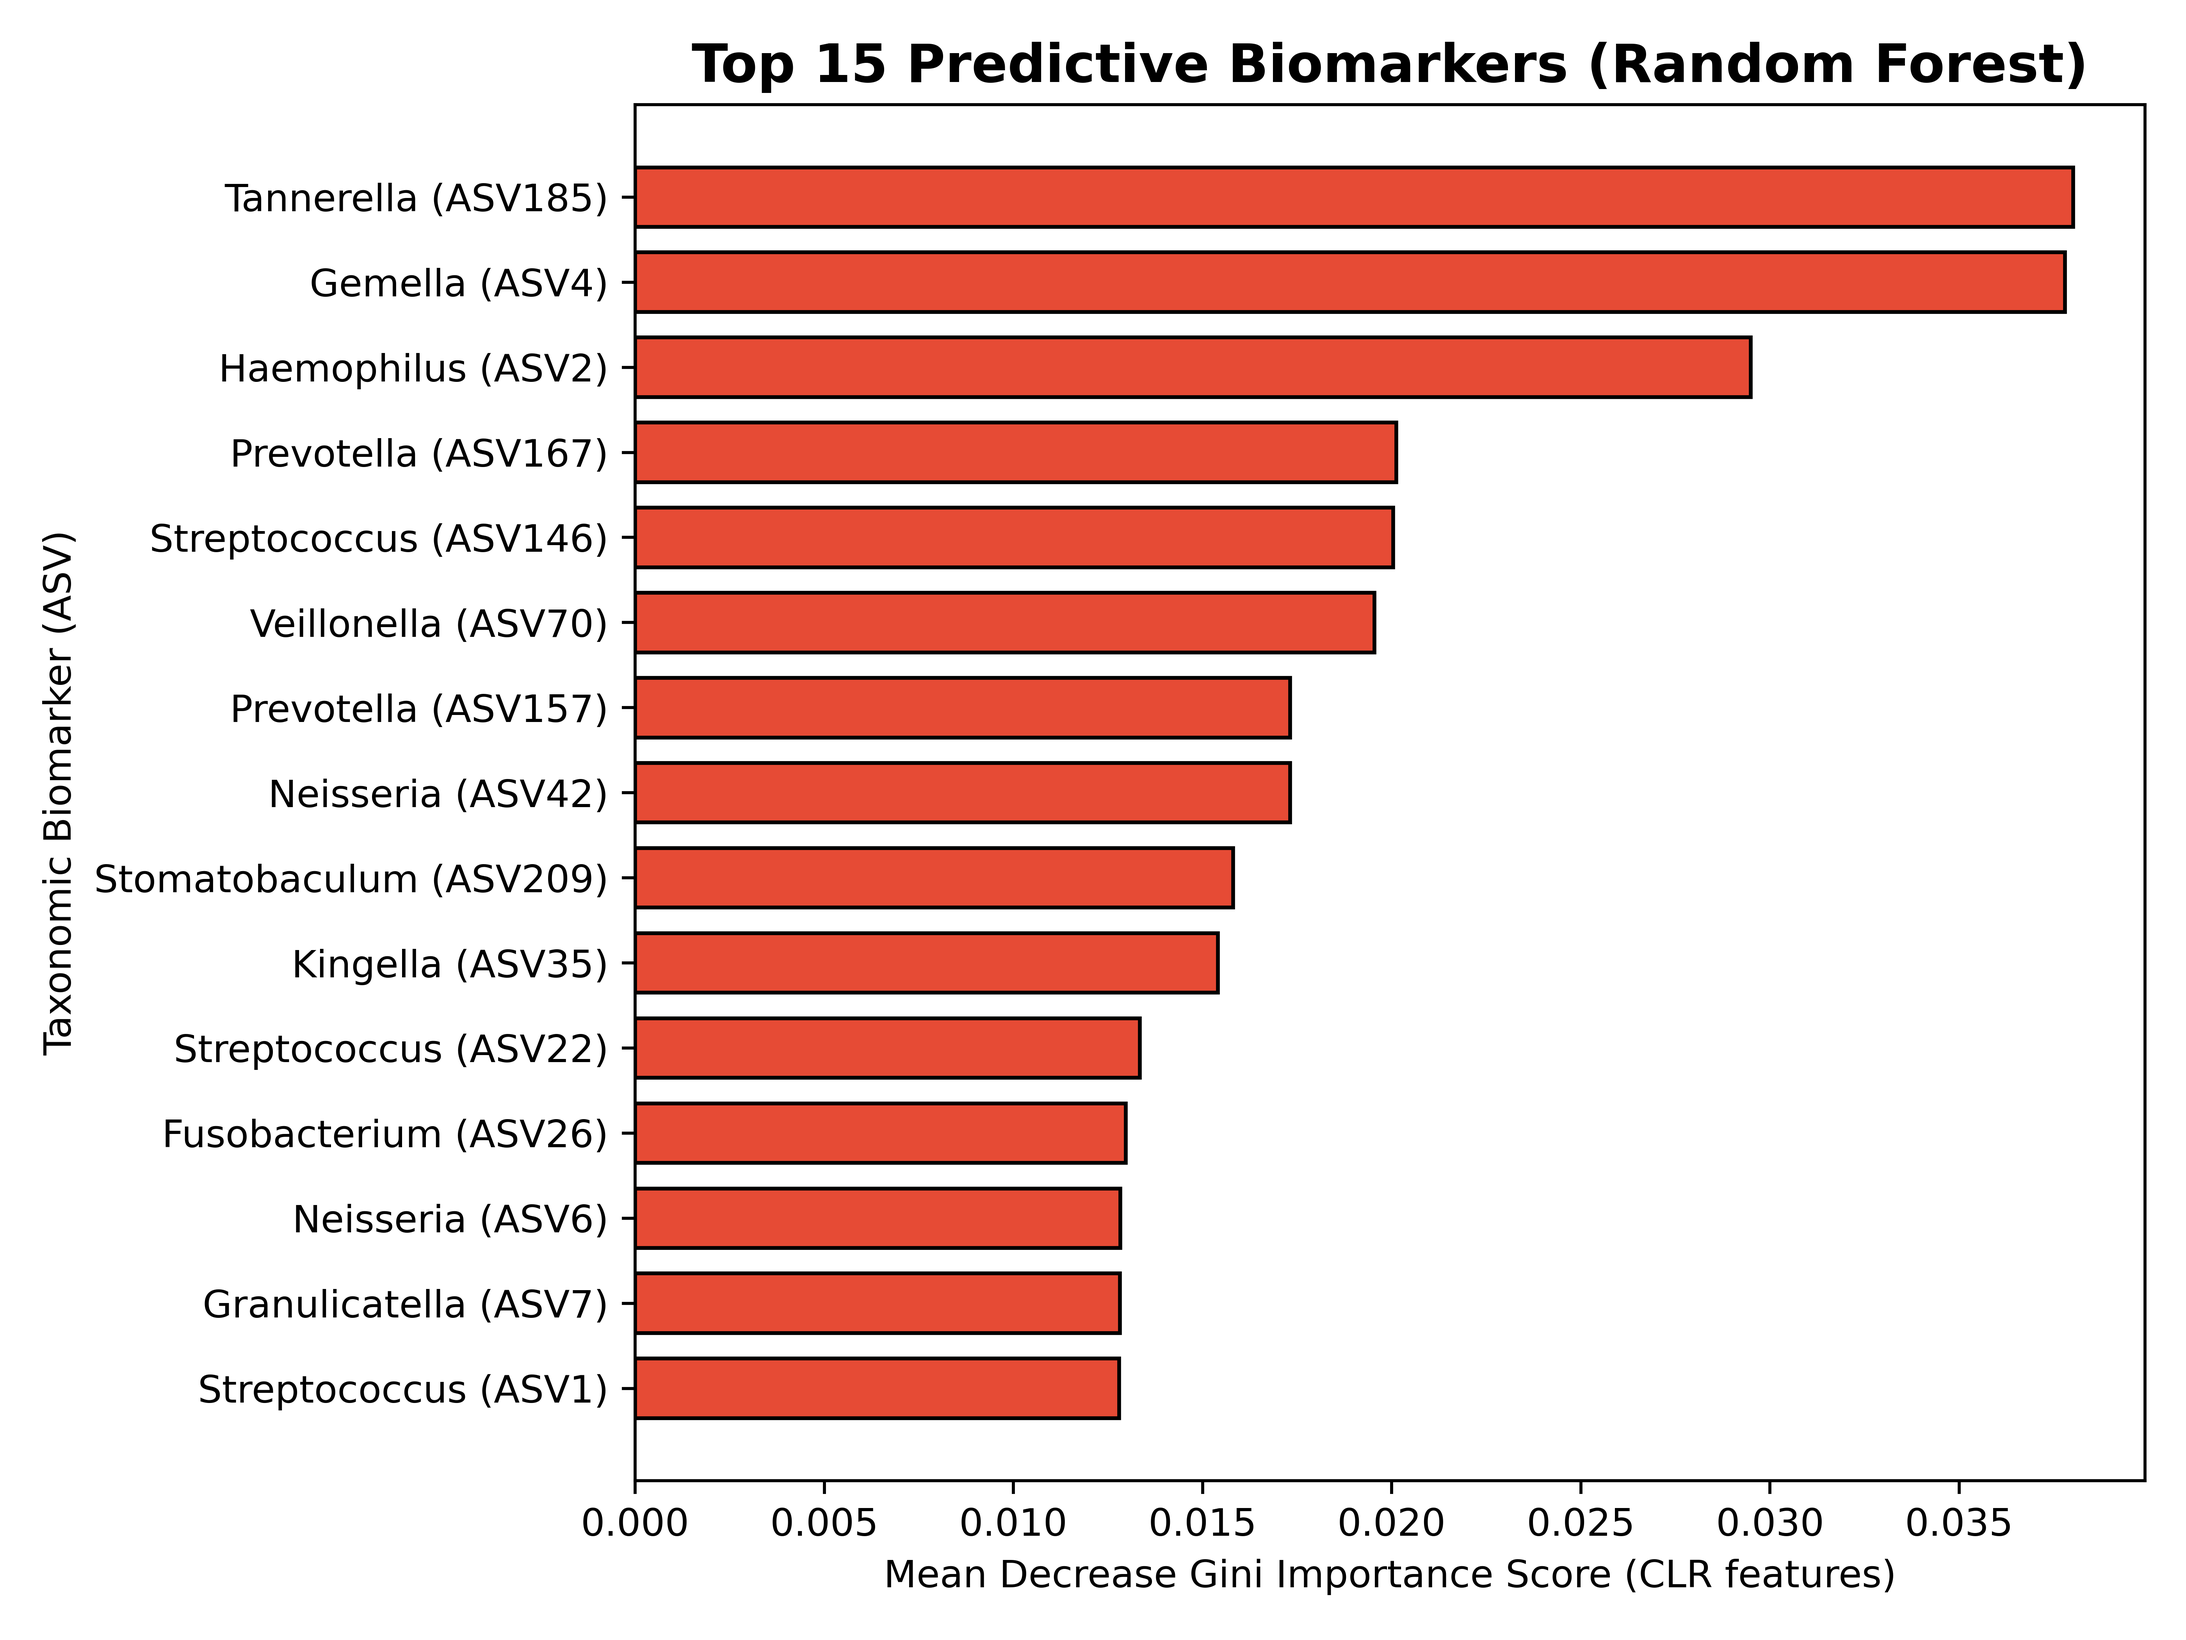
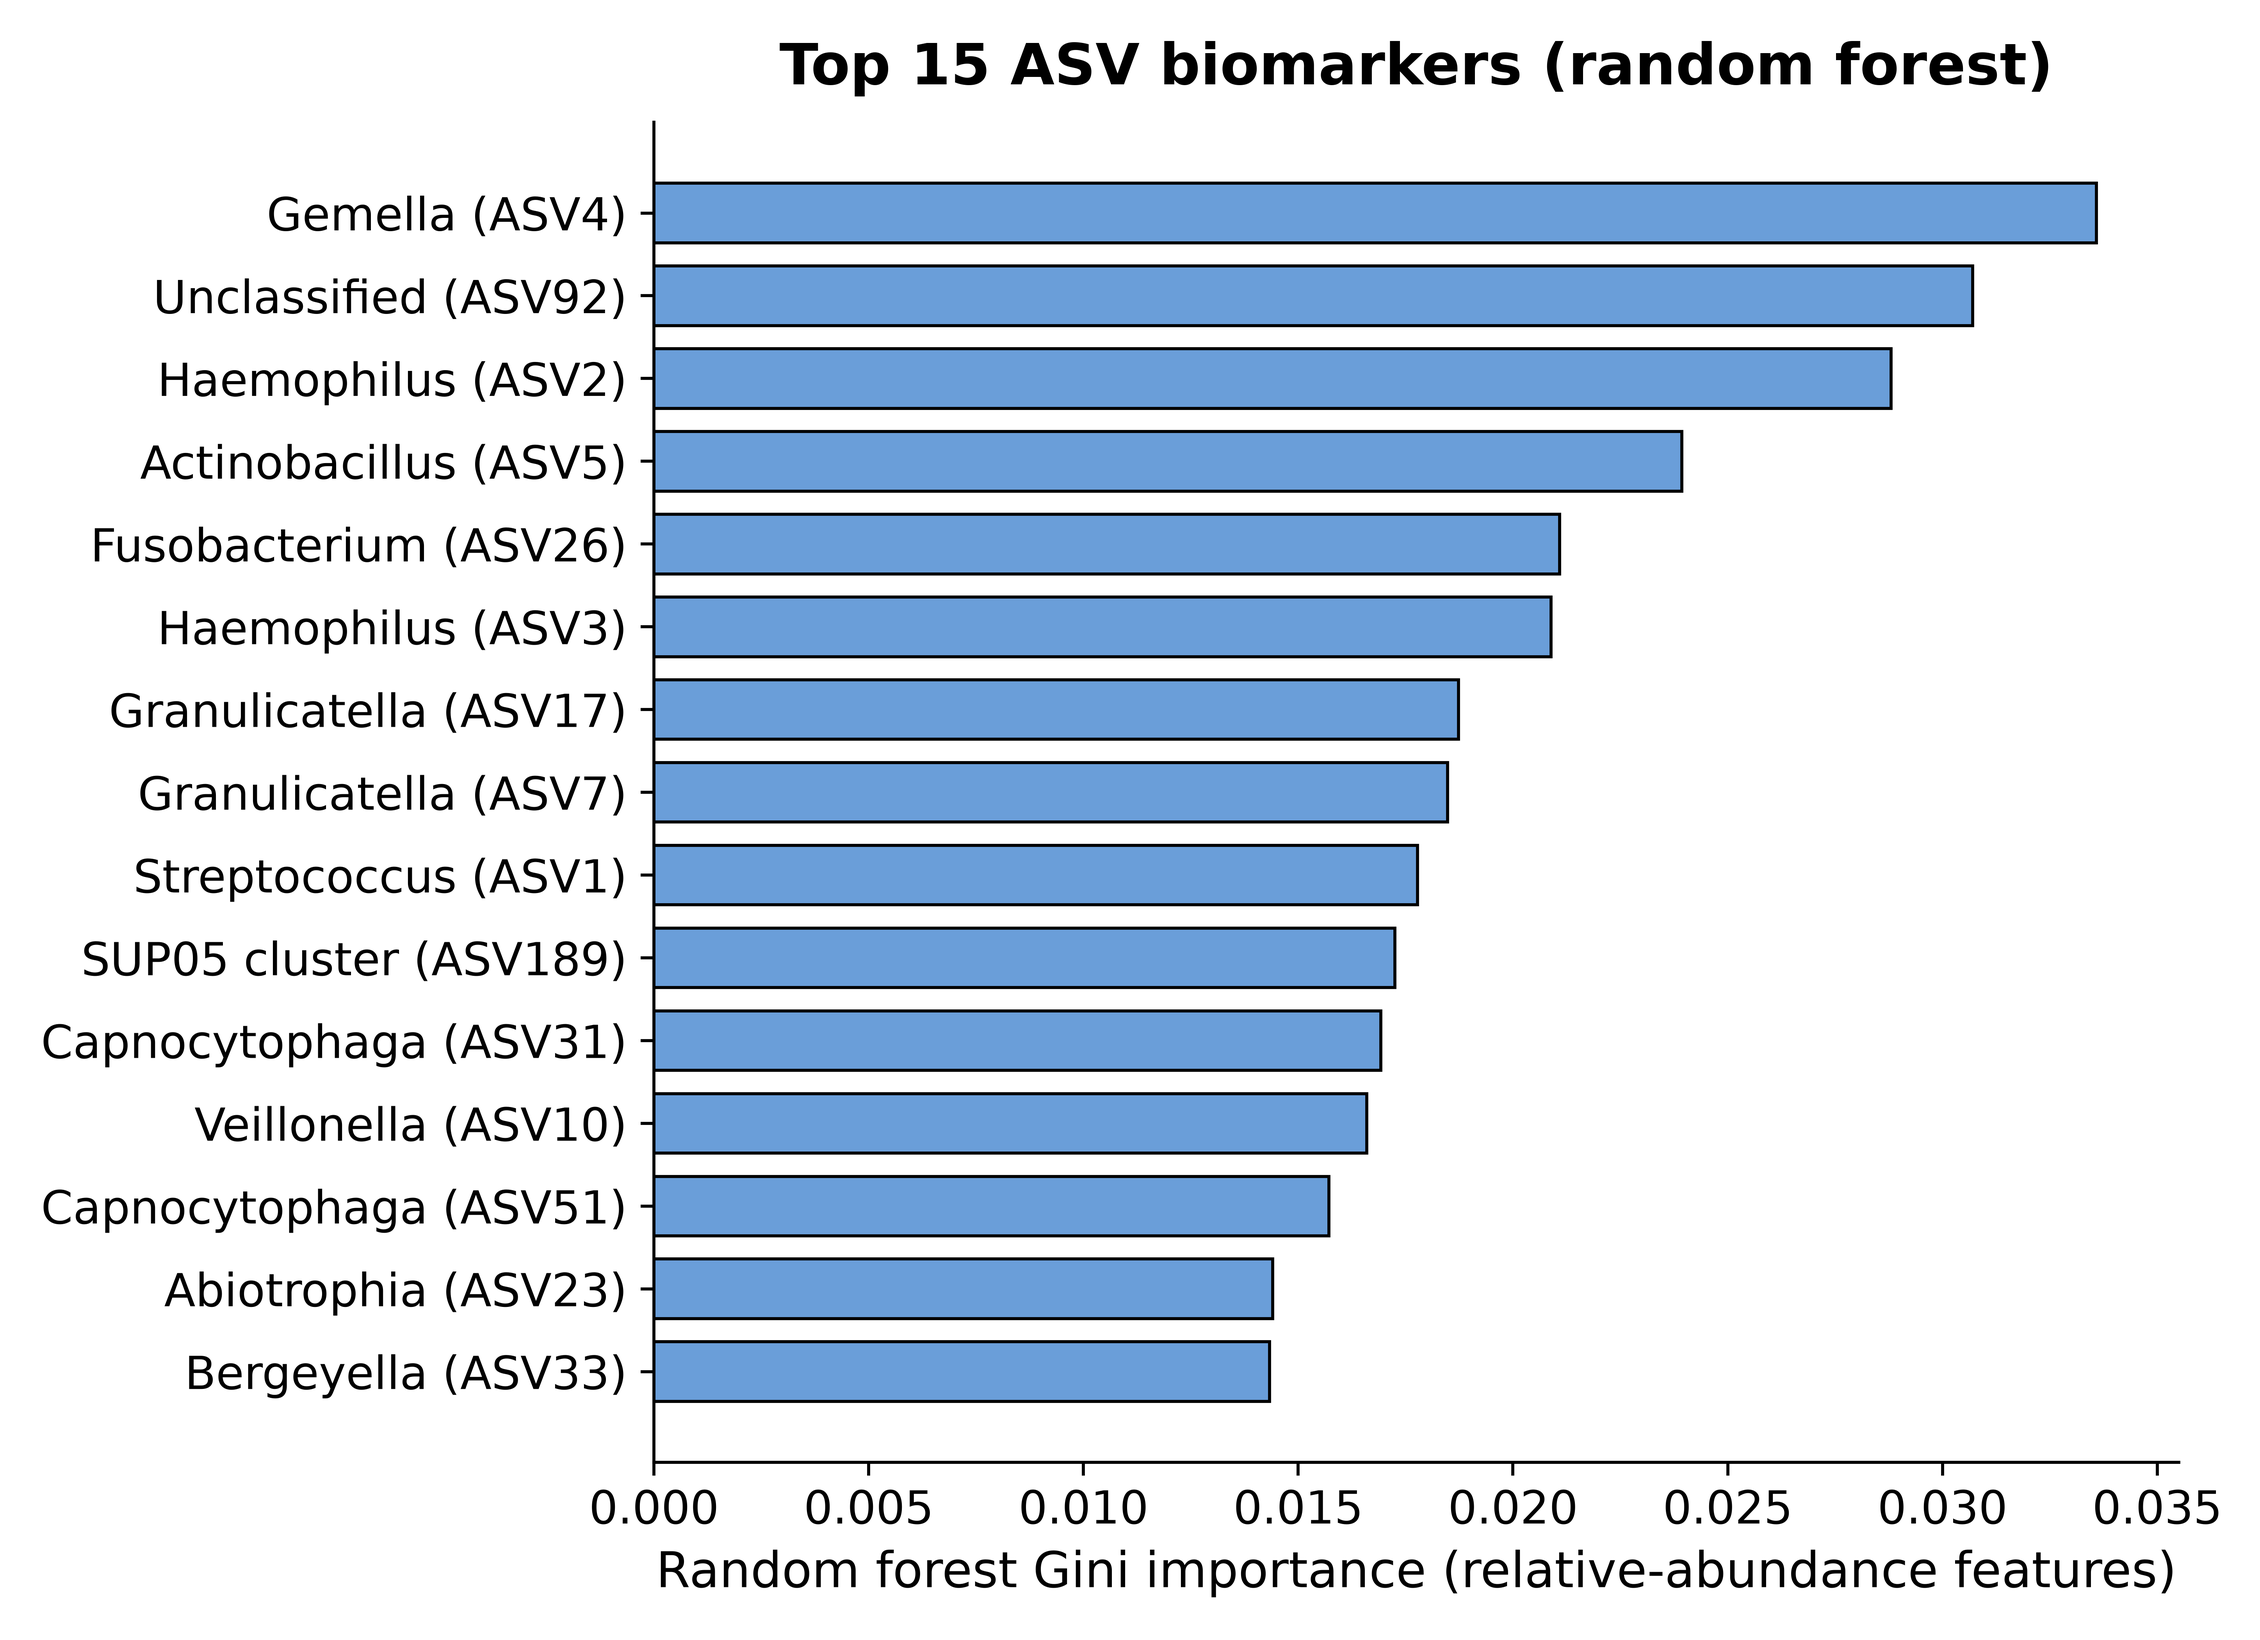
Final pass: deterministic RF importances, README ML metrics, figure inventory
- results/rf_feature_importance.csv: regenerated with the seed-fixed Random Forest
  (n_estimators=200 fit on the training partition, random_state=42); matches the
  manuscript-reported importances (ASV4 0.034 > ASV92 0.031 > ASV2 0.029)
- figures/rf_feature_importance.png: redrawn in the submission Figure 6B style (700 dpi)
- README.md: AUC 0.85 -> 0.86 with 95% CI 0.65-1.00; removed inventory rows for the
  superseded relics Fig._6A.png (old alpha boxplots) and Fig._6B.png (old fecal PCoA,
  superseded p = 0.085) and the misattributed Fig._7.png row
- figures/: deleted Fig._6A.png and Fig._6B.png (pre-revision relics contradicting the
  corrected manuscript)

diff --git a/README.md b/README.md
@@ -11,7 +11,7 @@
 [![R](https://img.shields.io/badge/R-4.3-276DC3?style=flat-square&logo=r&logoColor=white)]()
 [![License](https://img.shields.io/badge/License-MIT-green?style=flat-square)]()
 [![16S](https://img.shields.io/badge/Amplicon-16S%20rRNA-blueviolet?style=flat-square)]()
-[![ML](https://img.shields.io/badge/AUC-0.85-FF6F00?style=flat-square)]()
+[![ML](https://img.shields.io/badge/AUC-0.86-FF6F00?style=flat-square)]()
 
 _A reproducible 16S rRNA amplicon metagenomics pipeline linking oral microbiome structure,
 function, and diagnostic prediction to Alzheimer's disease._
@@ -26,7 +26,7 @@ function, and diagnostic prediction to Alzheimer's disease._
 - 🧬 **96 oral** (43 AD / 53 control) + **78 fecal** (32 AD / 46 control) = **174 samples analysed**
 - 💊 **ANCOM-BC2** compositional differential-abundance testing across 5 taxonomic ranks
 - 🧠 **PICRUSt2** predicted functional profiling (biosynthetic pathways enriched in AD)
-- 🤖 **Random Forest** classifier reaching **AUC = 0.85** (95% CI 0.72–0.98)
+- 🤖 **Random Forest** classifier reaching **AUC = 0.86** (95% CI 0.65–1.00)
 - ⚖ Fully reproducible end-to-end workflow (Python + R, conda + pip)
 
 ---
@@ -40,7 +40,7 @@ function, and diagnostic prediction to Alzheimer's disease._
 | **Genus markers** | `SUP05`, `Gemella`, `Fusobacterium` ↑; `F0332`, `Selenomonas` ↓ | significant |
 | **Alpha diversity** | Increased in AD (community destabilization) | Chao1 p = 0.003 |
 | **Functional potential** | Biosynthetic pathways ↑ (peptidoglycan, thiamine, phospholipid) | 58% rise |
-| **Diagnostic ML** | Random Forest **AUC 0.85** | sens. 77.8%, spec. 81.8% |
+| **Diagnostic ML** | Random Forest **AUC 0.86** | sens. 77.8%, spec. 81.8% |
 
 ---
 
@@ -229,9 +229,6 @@ ad_oral_microbiome/
 | `Fig. 3.jpg` | Chao1 / Fisher / Observed alpha diversity |
 | `Fig. 4.jpg` | Beta diversity (NMDS / PCoA) |
 | `Fig. 5.jpg` | PICRUSt2 pathway analysis |
-| `Fig._6A.png` | ML ROC curves (all models) |
-| `Fig._6B.png` | Confusion matrices |
-| `Fig._7.png` | Random Forest feature importance |
 | `Fig_8_combined_pca.png` | **Combined oral+fecal PCA (174 samples)** |
 
 ### Supplementary Figures — `figures/`
